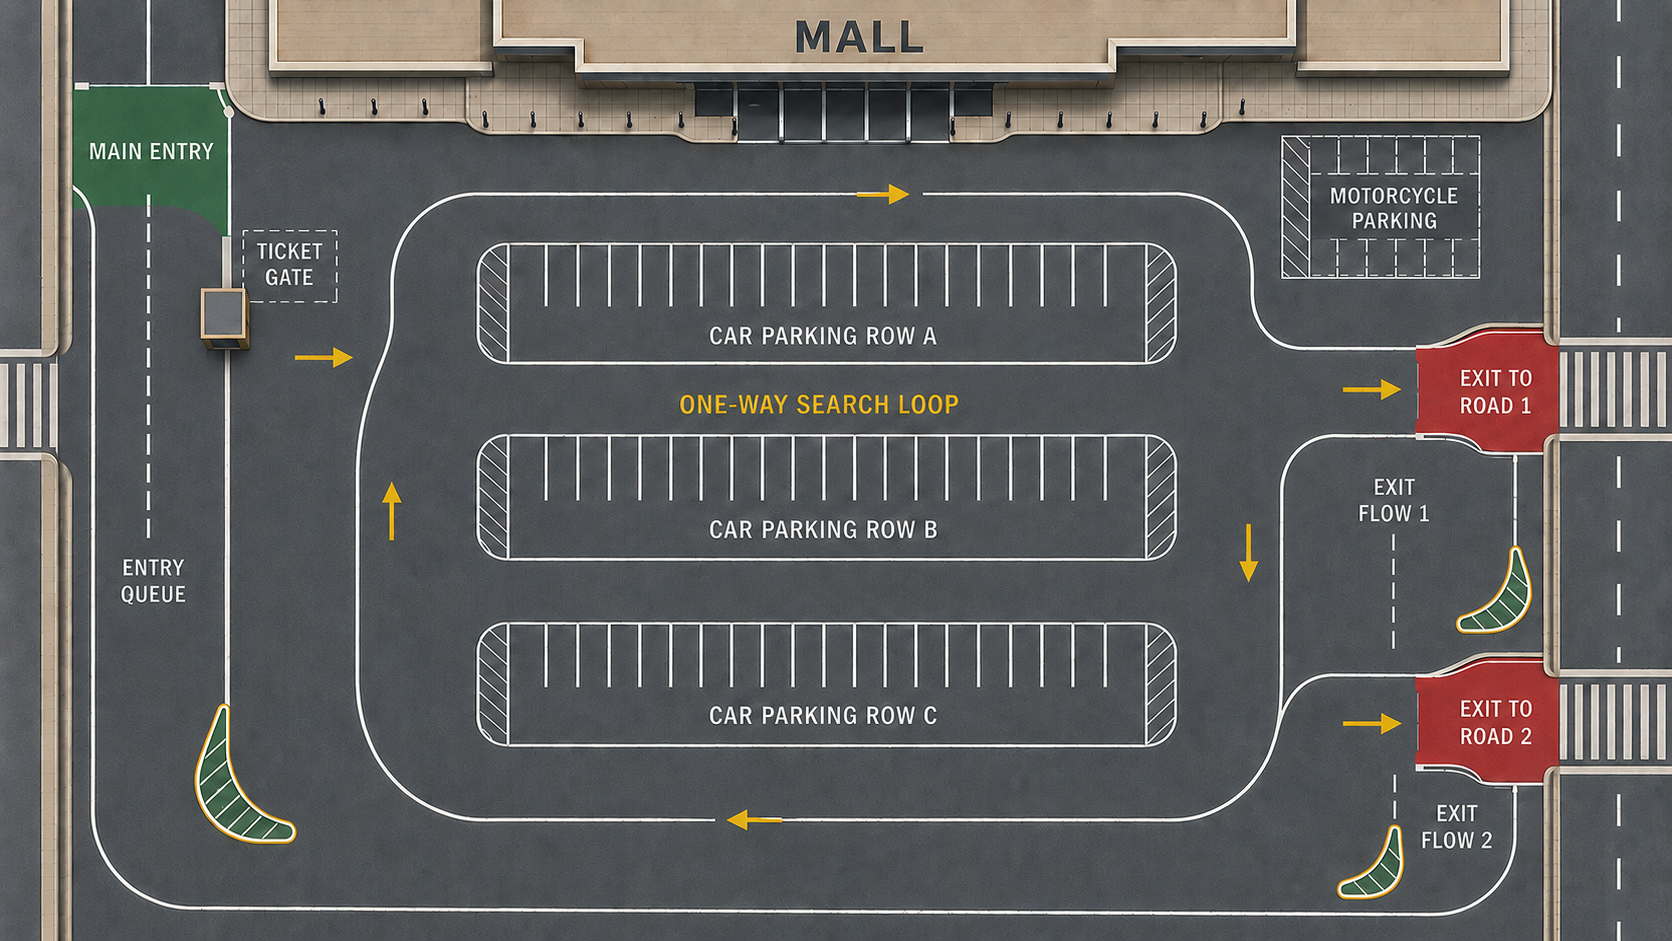
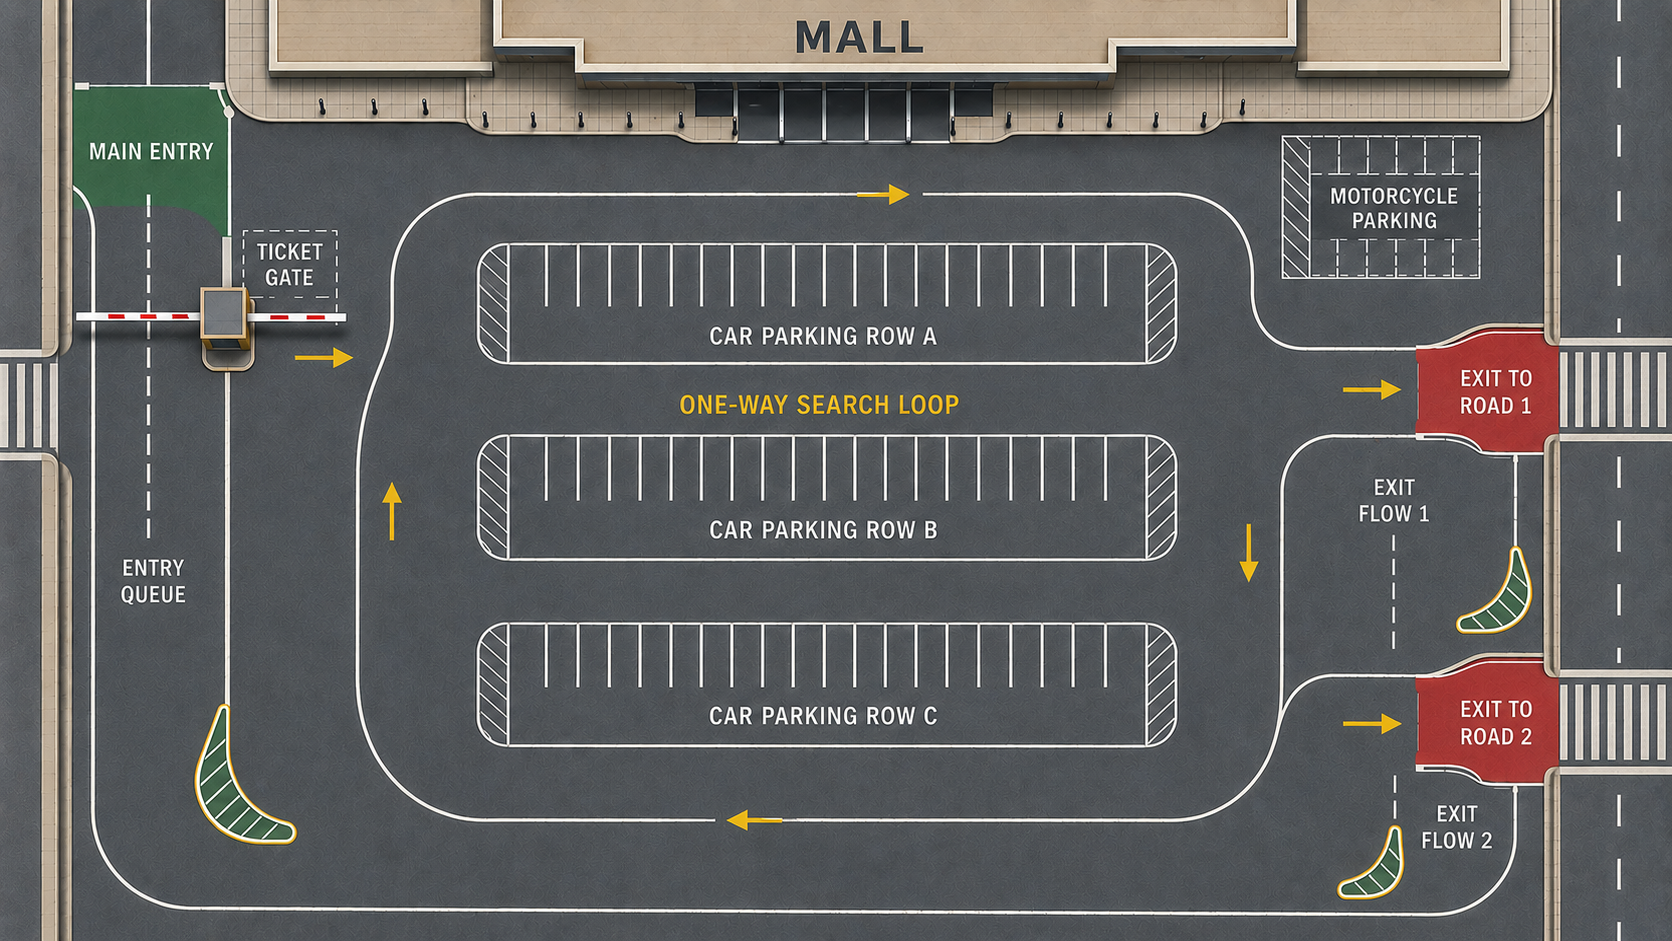
Show gates on the gate-layout maps
Switch the three custom-map backgrounds to the with-gate map versions so the
entrance ticket-gate barriers are visible again (the no-gate versions had none).
Background URLs get a cache-bust version; app.js cache-buster bumped to v=20.

Exits remain open lanes (the maps draw no exit barrier).

diff --git a/app/static/app.js b/app/static/app.js
@@ -392,9 +392,9 @@ function tick(timestamp) {
 
 const DEFAULT_BACKGROUND = "/static/assets/generated/custom-parking-background.png";
 const SCENARIO_BACKGROUNDS = {
-  two_entrance_two_exit: "/static/assets/generated/map-two-entrance-two-exit.png",
-  two_entrance_one_exit: "/static/assets/generated/map-two-entrance-one-exit.png",
-  one_entrance_two_exit: "/static/assets/generated/map-one-entrance-two-exit.png",
+  two_entrance_two_exit: "/static/assets/generated/map-two-entrance-two-exit.png?v=2",
+  two_entrance_one_exit: "/static/assets/generated/map-two-entrance-one-exit.png?v=2",
+  one_entrance_two_exit: "/static/assets/generated/map-one-entrance-two-exit.png?v=2",
 };
 
 function applyScenarioBackground(scenario) {

diff --git a/app/static/index.html b/app/static/index.html
@@ -145,6 +145,6 @@
       </main>
     </div>
 
-    <script src="/static/app.js?v=19" type="module"></script>
+    <script src="/static/app.js?v=20" type="module"></script>
   </body>
 </html>
